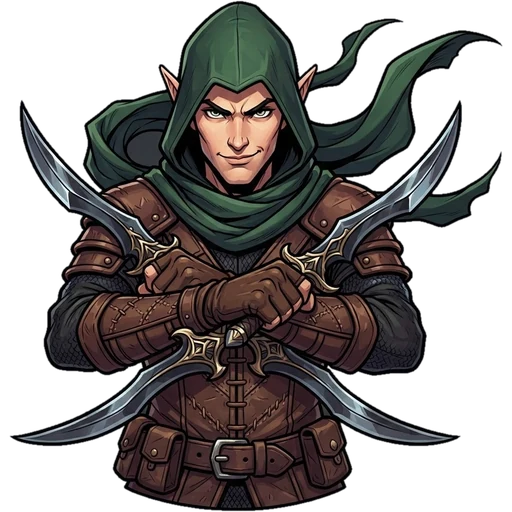
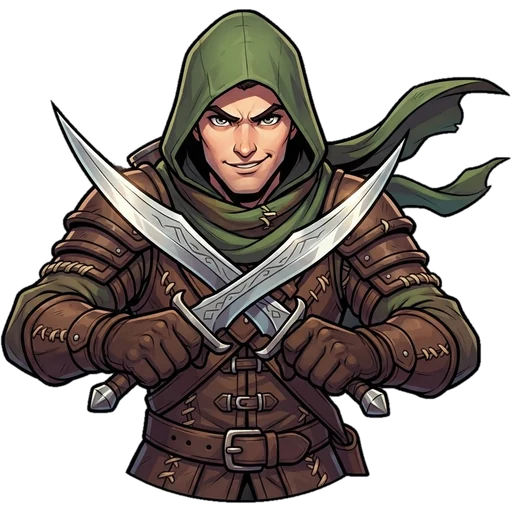
v9.78.8 : nouveau Rôdeur
Claude-Session: https://claude.ai/code/session_014VBvzn7cPipHkoepy8RC9p

diff --git a/index.html b/index.html
@@ -6354,10 +6354,10 @@ function doImport() {
 
 
 /* ===================== Nouveautés (à mettre à jour à chaque version) ===================== */
-const APP_VERSION = '9.78.7'; // ⚠ Mettre aussi le même numéro dans version.json (sinon pas de mise à jour automatique)
+const APP_VERSION = '9.78.8'; // ⚠ Mettre aussi le même numéro dans version.json (sinon pas de mise à jour automatique)
 /* Notes de mise à jour : UNE seule entrée par jour. Si une entrée existe déjà pour aujourd'hui, mets-la à jour (v = dernière version, ajoute/réécris les puces) au lieu d'en ajouter une nouvelle. */
 const CHANGELOG = [
-  {v: '9.78.7', d: '2026-11-18', fr: ['Classes : le Guerrier et le Rôdeur ont maintenant leur personnage illustré, avec un choix d\'apparence homme ou femme.', 'Classes : choisis ta classe (Guerrier, Rôdeur, Moine ou Soigneur). L\'appli te conseille celle qui colle à tes 4 dernières semaines, avec la raison. Tu peux la changer une fois par semaine, et chaque classe gagne des titres de maîtrise avec le temps (carte « Ta classe » dans Guilde, étape à la création du profil).', 'Rotation de l\'écran : la page revient à la même place, même si l\'écran se redessine.', 'Boss : la série qui fait tomber le boss (charge exceptionnelle) n\'est plus prise comme « précédent » ni comme poids proposé à la prochaine séance.', 'Séance : le trophée d\'un record battu est de nouveau visible sur le bouton jaune.', 'Guilde : la « Semaine à thème » est supprimée.', 'Quand tu tournes l\'écran, la page reste à la même place.', 'Montre : le titre qui défile affiche ta dernière performance sur l\'exercice (comme Hevy).', 'Montre : après un échauffement, le repos affiché est tout de suite le bon (45 s par défaut) au lieu de montrer 3 min puis de changer.', 'Synchronisation entre appareils : si tu t\'entraînes sur un autre appareil (téléphone, tablette, navigateur), celui-ci récupère tout seul tes séances, routines, réglages et ta guilde à l\'ouverture. Si les deux ont des changements, l\'appli te demande avant de remplacer.', 'Bannières plus hautes : le décor n\'est plus coupé en haut et en bas.', 'Bannières plus lumineuses : le décor se voit beaucoup mieux (seul le bord gauche reste assombri pour le nom).', 'Le mode développeur ne débloque plus les bannières de guilde.', 'Bannières de guilde : chaque niveau de guilde en débloque de nouvelles (3 au départ, toutes au niveau 8).', 'Auras de série beaucoup plus visibles : plus de particules, plus grosses, avec un halo et un anneau de couleur.', 'Nouvel effet de fin de séance « Arc-en-ciel » : arc lumineux qui se dessine avec des nuages et de la poussière d\'étoiles.', 'Guilde : tu peux inviter directement un ami. Il reçoit une notification et accepte ou refuse (le code reste disponible pour partager).', 'Particules retirées des bannières (elles se figeaient pendant le défilement et jouaient mal avec les peintures).', 'Les 18 bannières sont maintenant de vrais décors peints (village à l\'aube, forge des nains, antre du dragon, cité céleste, kraken des abysses, etc.), avec les particules animées par-dessus.', 'Mode développeur : galerie de tous les boss avec leurs états (normal, enragé, agonie, vaincu, inconnu), un coup et la fenêtre de victoire.', 'Les 6 boss de raid ont maintenant leur portrait peint.', 'Raid de guilde revu : il se fait avec les membres de ta guilde (tout le monde voit le même), seuls ceux qui s\'entraînent cette semaine ajoutent des PV, et chacun a sa barre avec sa part.', 'Carte de héros : elle brille quand tu portes un ensemble complet, et devient mythique au Prestige ou avec l\'ensemble Grand Maître.', 'Les 12 boss ont maintenant de vrais portraits peints, avec une lueur rouge quand ils sont enragés, des fissures à l\'agonie, et une fenêtre de victoire où le boss s\'écroule.'], en: ['Classes: the Warrior and the Ranger now have an illustrated character, with a male or female look.', 'Classes: pick your class (Warrior, Ranger, Monk or Healer). The app suggests the one that fits your last 4 weeks, with the reason. You can change it once a week, and each class earns mastery titles over time (Your class card in Guild, step when creating your profile).', 'Screen rotation: the page returns to the same spot, even if the screen redraws.', 'Boss: the set that defeats the boss (an exceptional load) is no longer used as the "previous" value or the suggested weight next session.', 'Workout: the trophy on a new-record button is visible again on the yellow button.', 'Guild: the Theme Week card is removed.', 'When you rotate the screen, the page stays in place.', 'Watch: the scrolling title shows your last performance on the exercise (like Hevy).', 'Watch: after a warm-up set, the rest timer now shows the right time immediately (45 s by default) instead of 3 min then jumping.', 'Sync between devices: if you train on another device (phone, tablet, browser), this one automatically pulls your workouts, routines, settings and guild when opened. If both have changes, the app asks before replacing.', 'Taller banners: the scene is no longer cropped at top and bottom.', 'Brighter banners: the scene is much more visible (only the left edge stays dark for the name).', 'Developer mode no longer unlocks guild banners.', 'Guild banners: each guild level unlocks new ones (3 at start, all at level 8).', 'Set auras are much more visible: more and bigger particles, with a glow and a colored ring.', 'New "Rainbow" workout-end effect: a glowing arc that draws itself with clouds and stardust.', 'Guild: you can invite a friend directly. They get a notification and accept or decline (the code is still there to share).', 'Particles removed from banners (they froze while scrolling and clashed with the paintings).', 'All 18 banners are now real painted scenes (village at dawn, dwarven forge, dragon\'s lair, celestial city, abyssal kraken, etc.), with animated particles on top.', 'Developer mode: gallery of all bosses with their states (normal, enraged, dying, defeated, unknown), a hit and the victory window.', 'The 6 raid bosses now have painted portraits.', 'Guild raid reworked: it uses your guild members (everyone sees the same one), only those who train this week add HP, and each has a bar showing their share.', 'Hero card: it shines when you wear a full set, and turns mythic at Prestige or with the Grandmaster set.', 'The 12 bosses now have real painted portraits, with a red glow when enraged, cracks when dying, and a victory window where the boss collapses.']},
+  {v: '9.78.8', d: '2026-11-18', fr: ['Classes : le Guerrier et le Rôdeur ont maintenant leur personnage illustré, avec un choix d\'apparence homme ou femme.', 'Classes : choisis ta classe (Guerrier, Rôdeur, Moine ou Soigneur). L\'appli te conseille celle qui colle à tes 4 dernières semaines, avec la raison. Tu peux la changer une fois par semaine, et chaque classe gagne des titres de maîtrise avec le temps (carte « Ta classe » dans Guilde, étape à la création du profil).', 'Rotation de l\'écran : la page revient à la même place, même si l\'écran se redessine.', 'Boss : la série qui fait tomber le boss (charge exceptionnelle) n\'est plus prise comme « précédent » ni comme poids proposé à la prochaine séance.', 'Séance : le trophée d\'un record battu est de nouveau visible sur le bouton jaune.', 'Guilde : la « Semaine à thème » est supprimée.', 'Quand tu tournes l\'écran, la page reste à la même place.', 'Montre : le titre qui défile affiche ta dernière performance sur l\'exercice (comme Hevy).', 'Montre : après un échauffement, le repos affiché est tout de suite le bon (45 s par défaut) au lieu de montrer 3 min puis de changer.', 'Synchronisation entre appareils : si tu t\'entraînes sur un autre appareil (téléphone, tablette, navigateur), celui-ci récupère tout seul tes séances, routines, réglages et ta guilde à l\'ouverture. Si les deux ont des changements, l\'appli te demande avant de remplacer.', 'Bannières plus hautes : le décor n\'est plus coupé en haut et en bas.', 'Bannières plus lumineuses : le décor se voit beaucoup mieux (seul le bord gauche reste assombri pour le nom).', 'Le mode développeur ne débloque plus les bannières de guilde.', 'Bannières de guilde : chaque niveau de guilde en débloque de nouvelles (3 au départ, toutes au niveau 8).', 'Auras de série beaucoup plus visibles : plus de particules, plus grosses, avec un halo et un anneau de couleur.', 'Nouvel effet de fin de séance « Arc-en-ciel » : arc lumineux qui se dessine avec des nuages et de la poussière d\'étoiles.', 'Guilde : tu peux inviter directement un ami. Il reçoit une notification et accepte ou refuse (le code reste disponible pour partager).', 'Particules retirées des bannières (elles se figeaient pendant le défilement et jouaient mal avec les peintures).', 'Les 18 bannières sont maintenant de vrais décors peints (village à l\'aube, forge des nains, antre du dragon, cité céleste, kraken des abysses, etc.), avec les particules animées par-dessus.', 'Mode développeur : galerie de tous les boss avec leurs états (normal, enragé, agonie, vaincu, inconnu), un coup et la fenêtre de victoire.', 'Les 6 boss de raid ont maintenant leur portrait peint.', 'Raid de guilde revu : il se fait avec les membres de ta guilde (tout le monde voit le même), seuls ceux qui s\'entraînent cette semaine ajoutent des PV, et chacun a sa barre avec sa part.', 'Carte de héros : elle brille quand tu portes un ensemble complet, et devient mythique au Prestige ou avec l\'ensemble Grand Maître.', 'Les 12 boss ont maintenant de vrais portraits peints, avec une lueur rouge quand ils sont enragés, des fissures à l\'agonie, et une fenêtre de victoire où le boss s\'écroule.'], en: ['Classes: the Warrior and the Ranger now have an illustrated character, with a male or female look.', 'Classes: pick your class (Warrior, Ranger, Monk or Healer). The app suggests the one that fits your last 4 weeks, with the reason. You can change it once a week, and each class earns mastery titles over time (Your class card in Guild, step when creating your profile).', 'Screen rotation: the page returns to the same spot, even if the screen redraws.', 'Boss: the set that defeats the boss (an exceptional load) is no longer used as the "previous" value or the suggested weight next session.', 'Workout: the trophy on a new-record button is visible again on the yellow button.', 'Guild: the Theme Week card is removed.', 'When you rotate the screen, the page stays in place.', 'Watch: the scrolling title shows your last performance on the exercise (like Hevy).', 'Watch: after a warm-up set, the rest timer now shows the right time immediately (45 s by default) instead of 3 min then jumping.', 'Sync between devices: if you train on another device (phone, tablet, browser), this one automatically pulls your workouts, routines, settings and guild when opened. If both have changes, the app asks before replacing.', 'Taller banners: the scene is no longer cropped at top and bottom.', 'Brighter banners: the scene is much more visible (only the left edge stays dark for the name).', 'Developer mode no longer unlocks guild banners.', 'Guild banners: each guild level unlocks new ones (3 at start, all at level 8).', 'Set auras are much more visible: more and bigger particles, with a glow and a colored ring.', 'New "Rainbow" workout-end effect: a glowing arc that draws itself with clouds and stardust.', 'Guild: you can invite a friend directly. They get a notification and accept or decline (the code is still there to share).', 'Particles removed from banners (they froze while scrolling and clashed with the paintings).', 'All 18 banners are now real painted scenes (village at dawn, dwarven forge, dragon\'s lair, celestial city, abyssal kraken, etc.), with animated particles on top.', 'Developer mode: gallery of all bosses with their states (normal, enraged, dying, defeated, unknown), a hit and the victory window.', 'The 6 raid bosses now have painted portraits.', 'Guild raid reworked: it uses your guild members (everyone sees the same one), only those who train this week add HP, and each has a bar showing their share.', 'Hero card: it shines when you wear a full set, and turns mythic at Prestige or with the Grandmaster set.', 'The 12 bosses now have real painted portraits, with a red glow when enraged, cracks when dying, and a victory window where the boss collapses.']},
   {v: '9.77.0', d: '2026-11-17', fr: ['Guilde : de vraies guildes entre amis. Crée la tienne ou rejoins-en une avec un code ; toute l\'XP des membres fait monter son niveau et débloque des récompenses de guilde.', 'Boss dessinés : chaque boss a son portrait, ses PV et ses phases (enragé, à l\'agonie). Pendant ta séance, chaque série sur l\'exercice du boss lui porte un coup.', 'Nouveau Bestiaire : les boss que tu as vaincus, les autres en silhouette.', 'Le donjon de la semaine devient une carte à 5 salles, avec le coffre au bout.', 'Semaine à thème : un groupe de muscles différent chaque lundi, +300 XP.', 'Armurerie : ta carte de héros (holographique avec un objet Légendaire ou Mythique), les Ensembles, une animation quand tu débloques une récompense, et des bannières animées sur ton profil.', '🛠 iPhone : le titre en haut redescend sous la zone floue d\'Apple (appli installée).', '🛠 Android : les Réglages ne peuvent plus figer l\'appli si Health Connect était en cours de vérification.', '🛠 Android sans montre : l\'appli n\'appelle plus le service montre de Google quand il n\'existe pas sur le téléphone (il pouvait bloquer l\'appli plusieurs secondes).', '📱 Appli Android : ta séance et ton repos sur l\'écran verrouillé (compte à rebours, « +30 s », « Passer »), un widget pour l\'écran d\'accueil (routine du jour, série de semaines, bouton Commencer) et les nouvelles de tes amis même appli fermée (séance terminée, demande d\'ami, défi, encouragement). Réglages → Téléphone Android.', '🐞 Les erreurs de l\'appli sont signalées automatiquement pour être corrigées plus vite (jamais tes séances). Tu peux le couper dans Réglages → Données et compte.', '⚡ Guilde plus rapide : les sections fermées ne sont plus préparées en avance, seulement quand tu les ouvres.', '⚡ Appli Android : plus de latence en changeant d\'onglet. Les données pour la montre ne sont plus recalculées après chaque écran, seulement quand une montre est jumelée et que quelque chose a changé.', '⚡ Onglets instantanés : en touchant un onglet en bas, il s\'affiche net tout de suite, sans fondu. Les autres écrans s\'ouvrent avec un effet beaucoup plus court.', '⚡ Plus fluide : les effets animés (cadres qui tournent, lueurs, bannières) se mettent en pause pendant que tu défiles ou glisses, et restent fixes dans les listes d\'amis et l\'Armurerie. Pendant un glissement, la page suit mieux ton doigt.', '⚡ Le glissement entre onglets marche aussi en partant du haut de l\'écran (le titre), et un glissement plus court ou plus lent suffit.', '⚡ Glisser d\'un onglet à l\'autre est instantané : le nouvel onglet apparaît tout de suite et glisse en place, sans écran vide entre les deux.', '⚡ Plus rapide : les photos de tes amis se chargent seulement quand elles arrivent à l\'écran (la page Amis s\'ouvre beaucoup plus vite), leur copie sur le téléphone est plus légère, et les gros calculs (médailles, niveau) sont préparés à l\'ouverture de l\'appli.', '🛠 Le glissement d\'un onglet à l\'autre refonctionne comme avant.', '⚡ Appli plus fluide : moins de travail en arrière-plan (photos envoyées une à une quand l\'appli ne fait rien, photos de la fiche Amis préparées une seule fois, copie hors ligne retirée).', '⚡ Onglets plus rapides : la Guilde s\'ouvre environ 7 fois plus vite et le Profil environ 4 fois plus vite avec un gros historique. Les transitions entre les écrans sont aussi plus courtes.', '🛠 La page ne « recharge » plus en fondu sombre à chaque petite mise à jour (amis en direct, sauvegarde, etc.) : le fondu se fait seulement en changeant d\'écran.', '🛠 Défiler vite ne rend plus la page sombre : un défilement vers le bas n\'est plus pris pour un glissement d\'onglet, et la page ne s\'assombrit plus pendant un glissement.', '❤ Health Connect : si l\'envoi d\'une séance rate au moment de « Terminer », l\'appli la renvoie toute seule à la prochaine ouverture. Avec la nouvelle appli Android, tes séances apparaissent comme « Musculation » dans Samsung Health (au lieu de « Autre entraînement »).', '📱 iPhone : le haut de l\'appli installée n\'est plus flou. Avec iOS 26, Apple ajoute une zone floue sous l\'heure : le haut de l\'appli descend maintenant juste en dessous.', '🛠 Amis : avec un réseau très lent, l\'appli n\'empile plus plusieurs envois de ta fiche en attente. Android : la reconnexion automatique ne se fait qu\'une fois par ouverture (plus de petite fenêtre de compte qui revient).', '🛠 Correction : après un glissement interrompu entre deux onglets, la page pouvait rester un peu décalée et sombre. Elle se remet maintenant en place toute seule.', '💾 Sauvegarde simplifiée : il reste la sauvegarde Runelift automatique et la copie de sécurité en fichier. Google Drive et GitHub disparaissent des réglages (sauf pour qui les utilise encore).', '📸 Photos : tes photos de progrès et de séances sont maintenant dans ta sauvegarde Runelift (jusqu\'à 500), en version légère. Sur un nouveau téléphone, elles reviennent toutes seules. Google Drive n\'est plus utilisé, donc plus de fenêtre Google Drive.', '🔐 Connexion et synchro : sur Android, si la connexion Google saute, l\'appli se reconnecte toute seule avec ton compte, sans fenêtre. Sans réseau (au gym), tes séances et ta fiche Amis sont gardées et partent toutes seules dès que le réseau revient.', '🔐 Connexion : plus besoin de te demander si tu es connecté. Si ta connexion Google est coupée, une page s\'ouvre toute seule avec un bouton pour te reconnecter (jamais pendant une séance). Le compte Google est maintenant nécessaire dès le début.', '👥 Amis : ta séance arrive maintenant toujours sur ta fiche. Si l\'envoi échoue (mauvais signal) ou tombe en même temps qu\'un autre, l\'appli le refait toute seule à la prochaine ouverture. Avant, une séance pouvait rester invisible pour tes amis.', '✨ Boss du mois : l\'affichage précise maintenant « ton meilleur avant ce mois » et ton 1RM estimé de ce mois-ci une fois le boss vaincu.', '✨ Quête du jour : elle suit maintenant ta routine du jour (celle prévue ou celle que tu fais). Plus de pompes un jour de Pull, et jamais plus de séries ou d\'exercices que ta routine en a. Les objectifs de répétitions, de charge totale et de durée se basent sur la dernière fois que tu as fait cette routine.', '⌚ Montre : si tu lances une séance depuis la montre et que le téléphone répond trop tard, il n\'en crée plus une deuxième en double.', '⌚ Montre : « Remplacer » fonctionne aussi sans le téléphone, et les images des exercices sont envoyées autrement pour mieux s\'afficher.', '⌚ Montre : « Remplacer l\'exercice » dans les options, avec les exercices similaires en premier puis les tiens. Abandonner demande maintenant une confirmation, et le bouton est aussi en bas de la liste des exercices.', '⌚ Montre autonome : si ton téléphone est loin ou si Runelift est fermé, la montre fait la séance seule et l\'envoie au téléphone à la fin (avec ton cardio). Nouvelle tuile Runelift (glisse à gauche depuis le cadran) pour commencer la routine du jour en un toucher. La lunette tactile monte et descend la charge et les reps. Les images des exercices sont envoyées par le téléphone.', '⌚ Montre : charges par 0,5, fais glisser ton doigt sur la charge ou les reps pour défiler vite (avec élan), la lunette accélère quand tu tournes vite, images des exercices, et l\'icône Runelift reste en bas du cadran pendant la séance.', '⌚ Montre : la routine prévue aujourd\'hui est en premier, touche une routine pour voir ses exercices avant de commencer. Pendant la séance, glisse à gauche pour voir tous tes exercices et à droite pour les options (ajouter, changer le type ou supprimer une série, terminer ou abandonner). La montre prend la couleur choisie sur ton téléphone et affiche ta série précédente. Une notification sur le téléphone te prévient quand une séance démarre depuis la montre.', '⌚ Montre, comme Hevy : démarre une routine depuis la montre, ajuste la charge et les répétitions avec les boutons ou la lunette avant de cocher, et termine ta séance au poignet.', '⌚ Appli Runelift pour Galaxy Watch / Wear OS (test) : exercice et série en cours au poignet, bouton « Fait » pour cocher ta série, repos qui vibre sur la montre et fréquence cardiaque en direct dans ta séance. Le cardio mesuré par la montre est gardé dans la séance (moyenne, max et graphique).', '❤ Appli Android : la fréquence cardiaque de ta montre (via Samsung Health et Health Connect) s\'affiche dans chaque séance de l\'historique : moyenne, maximum et graphique.', '❤ Appli Android : Health Connect. Dans Réglages → Santé Android, active-le pour envoyer chaque séance (durée et calories estimées) vers Health Connect, Samsung Health et ta montre, et recevoir ton poids dans tes Mesures.'], en: ['Guild: real guilds with friends. Create yours or join one with a code; all members\' XP levels it up and unlocks guild rewards.', 'Drawn bosses: each boss has a portrait, HP and phases (enraged, dying). During your workout, each set on the boss exercise lands a hit.', 'New Bestiary: the bosses you defeated, the others as silhouettes.', 'The weekly dungeon is now a 5-room map with the chest at the end.', 'Theme week: a different muscle group every Monday, +300 XP.', 'Armory: your hero card (holographic with a Legendary or Mythic item), Sets, an animation when you unlock a reward, and animated banners on your profile.', '🛠 iPhone: the top title sits below Apple\'s blurred area again (installed app).', '🛠 Android: Settings can no longer freeze the app while Health Connect is being checked.', '🛠 Android without a watch: the app no longer calls Google\'s watch service when it is missing on the phone (it could freeze the app for several seconds).', '📱 Android app: your workout and rest on the lock screen (countdown, “+30 s”, “Skip”), a home screen widget (today\'s routine, weekly streak, Start button) and news from your friends even with the app closed (finished workout, friend request, challenge, cheer). Settings → Android phone.', '🐞 App errors are reported automatically so they get fixed faster (never your workouts). You can turn it off in Settings → Data & account.', '⚡ Faster Guild: closed sections are no longer prepared in advance, only when you open them.', '⚡ Android app: no more lag when switching tabs. Watch data is no longer recalculated after every screen, only when a watch is paired and something changed.', '⚡ Instant tabs: tapping a tab at the bottom shows it sharp right away, with no fade. Other screens open with a much shorter effect.', '⚡ Smoother: animated effects (spinning frames, glows, banners) pause while you scroll or swipe, and stay still in friend lists and the Armory. During a swipe the page follows your finger better.', '⚡ Swiping between tabs also works from the top of the screen (the title), and a shorter or slower swipe is enough.', '⚡ Swiping between tabs is instant: the new tab shows right away and slides into place, with no blank screen in between.', '⚡ Faster: your friends\' photos load only when they reach the screen (the Friends page opens much faster), their copy on the phone is lighter, and heavy calculations (medals, level) are prepared when the app opens.', '🛠 Swiping from one tab to another works again as before.', '⚡ Smoother app: less background work (photos sent one by one when the app is idle, Friends card photos prepared only once, offline copy removed).', '⚡ Faster tabs: the Guild opens about 7 times faster and the Profile about 4 times faster with a big history. Screen transitions are also shorter.', '🛠 The page no longer fades in dark again at every small update (live friends, backup, etc.): the fade only happens when changing screens.', '🛠 Fast scrolling no longer darkens the page: scrolling down is no longer mistaken for a tab swipe, and the page no longer dims during a swipe.', '❤ Health Connect: if sending a workout fails when you tap Finish, the app resends it by itself the next time it opens. With the new Android app, your workouts show as weight training in Samsung Health (instead of Other workout).', '📱 iPhone: the top of the installed app is no longer blurry. With iOS 26, Apple adds a blurry area under the clock: the top of the app now sits just below it.', '🛠 Friends: on a very slow network, the app no longer stacks several pending sends of your card. Android: automatic sign-in only runs once per opening (no account sheet coming back).', '🛠 Fix: after an interrupted swipe between tabs, the page could stay slightly shifted and dark. It now snaps back by itself.', '💾 Simpler backup: the automatic Runelift backup and the safety copy as a file remain. Google Drive and GitHub leave the settings (except for those still using them).', '📸 Photos: your progress and workout photos are now in your Runelift backup (up to 500), in a light version. On a new phone they come back by themselves. Google Drive is no longer used, so no more Google Drive window.', '🔐 Sign-in and sync: on Android, if the Google connection drops, the app signs you back in by itself, no window. Without network (at the gym), your workouts and Friends card are kept and sent automatically as soon as the network is back.', '🔐 Sign-in: no need to wonder whether you are signed in anymore. If your Google connection drops, a page opens by itself with a button to sign back in (never during a workout). A Google account is now required from the start.', '👥 Friends: your workout now always reaches your card. If sending fails (weak signal) or collides with another one, the app retries by itself next time you open it. Before, a workout could stay invisible to your friends.', '✨ Boss of the month: the card now says "your best before this month" and shows this month\'s estimated 1RM once the boss is defeated.', '✨ Daily quest: it now follows your routine of the day (planned or the one you are doing). No more push-ups on a Pull day, and never more sets or exercises than your routine has. Rep, total weight and duration goals are based on the last time you did this routine.', '⌚ Watch: "Replace exercise" in options, with similar exercises first, then yours. Discard now asks for confirmation, and the button is also at the bottom of the exercise list.', '⌚ Standalone watch: if your phone is far or Runelift is closed, the watch runs the workout alone and sends it to the phone at the end (with your heart rate). New Runelift tile (swipe left from the watch face) to start today\'s routine in one tap. The touch bezel raises and lowers weight and reps. Exercise images are sent by the phone.', '⌚ Watch: weights by 0.5, swipe on weight or reps to scroll fast (with momentum), the bezel speeds up when you turn fast, exercise images, and the Runelift icon stays at the bottom of the watch face during the workout.', '⌚ Watch: today\'s planned routine comes first, tap a routine to see its exercises before starting. During the workout, swipe left to see all your exercises and right for options (add, change type or delete a set, finish or discard). The watch uses the color chosen on your phone and shows your previous set. A phone notification tells you when a workout starts from the watch.', '⌚ Watch, like Hevy: start a routine from the watch, adjust weight and reps with the buttons or the bezel before checking, and finish your workout from your wrist.', '⌚ Runelift app for Galaxy Watch / Wear OS (test): current exercise and set on your wrist, a "Done" button to check your set, rest that vibrates on the watch and live heart rate in your workout. Heart rate measured by the watch is kept in the workout (average, max and chart).', '❤ Android app: your watch heart rate (via Samsung Health and Health Connect) shows in each workout in your history: average, max and chart.', '❤ Android app: Health Connect. In Settings → Android health, turn it on to send each workout (duration and estimated calories) to Health Connect, Samsung Health and your watch, and receive your weight in your Measures.']},
   {v: '9.64.5', d: '2026-11-16', fr: ['Connexion Google sur Android : envoie le jeton d\'identité à Firebase (au lieu du jeton d\'accès).', 'Connexion Google sur Android : utilise maintenant le projet Firebase pour que les comptes et les amis fonctionnent.', 'Connexion Google sur Android : le message d\'erreur indique maintenant la vraie cause.', 'Préparation de l\'appli Android : connexion Google native.', '📚 5 nouveaux programmes prêts (11 au total) : Débutant 2 jours, Force 5×5, Haltères seulement, PPL + Upper / Lower (5 jours) et Upper / Lower / Full body (3 jours).', '✨ Nouveau : séance générée selon ta récupération (écran Entraînement). Choisis 30, 45, 60 ou 90 minutes : l\'appli propose des exercices pour tes muscles reposés et ceux que tu as moins travaillés cette semaine, et laisse au repos les muscles fatigués. « Autre proposition » en donne une différente.', '🤖 Assistant IA amélioré : le message contient maintenant ton profil (âge, taille, poids, objectif, points forts et faibles, exercices qui stagnent) pour des conseils plus précis. Les boutons ChatGPT et Claude ouvrent l\'IA avec le message déjà écrit quand c\'est possible. L\'analyse donne un bilan même si tu n\'écris pas de question.', '🗓 Nouveau : bilan de la semaine. Il s\'ouvre tout seul au début de chaque semaine (séances, temps, volume, records, comparés à la semaine d\'avant) et reste disponible dans Statistiques.', 'Image de séance à partager : ton nom, ton niveau et ton rang apparaissent maintenant en bas, avec la signature Runelift.', '🎯 Nouveau : objectif de poids (Profil → Mesures et photos). Choisis ton poids visé : barre de progression et date estimée selon ta tendance.', 'Le chrono d\'une série, un minuteur d\'intervalles et une routine d\'étirements en cours reprennent maintenant après un rafraîchissement.', 'Fil des amis : la réaction « bravo » a maintenant une icône de fête au lieu d\'un pouce.', 'Le mode focus reste activé si la page se rafraîchit pendant la séance.', 'Le boss du mois s\'affiche aussi en mode focus, avec un texte plus court. Petits écrans : la charge (ex. 287.5) n\'est plus coupée dans les séries.', 'Petits écrans : la fenêtre « Modifier la séance » ne déborde plus. Dernières icônes dessinées à la place des émojis (Collection, demandes d\'ami, besoins estimés).', 'Le « +5 XP » quand tu coches une série reste affiché un peu plus longtemps (1,8 seconde).', 'Le minuteur de repos continue maintenant si tu rafraîchis la page ou si l\'appli se recharge.', 'Boss du mois mieux expliqué : pas besoin d\'une série en plus, une de tes séries normales suffit. Les choix proposés sont maintenant les plus faciles possibles (ex. 75×10 au lieu de 95×3) et dans ta fourchette de répétitions. Touche un choix pour le mettre dans ta prochaine série.', 'La langue de l\'appli suit maintenant celle de ton téléphone (ou celle choisie sur la page Runelift) dès la première ouverture.', 'Accueil : nouvelle phrase d\'accroche et icône dessinée pour le Mode Classique.', '🔗 Un lien d\'invitation demande maintenant ta confirmation avant d\'envoyer une demande d\'ami.', '🔒 Sécurité renforcée : tout ce qui vient d\'autres personnes (cartes d\'amis, classement mondial, demandes, liens de partage) est vérifié avant d\'être affiché, et personne ne peut s\'ajouter à tes amis sans que tu lui aies envoyé une demande.', '👥 Amis : un ami sans nom s\'affiche avec son @pseudo au lieu de « A friend », le classement explique pourquoi quelqu\'un n\'a pas encore de niveau, et la recherche te dit quoi faire quand elle ne trouve personne.', '📱 Petits écrans : les boutons au-dessus des routines ne dépassent plus.', '🇬🇧 Version anglaise plus complète : plusieurs boutons et réglages restaient en français, et le programme de départ des nouveaux comptes en anglais a maintenant des noms d\'exercices en anglais.', '🪨 Carnet Muscu s\'appelle maintenant Runelift ! Rien d\'autre ne change : tes séances, ta guilde et tes amis sont toujours là.'],
     en: ['Android app groundwork: native Google sign-in.', '📚 5 new ready-made programs (11 in total): Beginner 2 days, Strength 5×5, Dumbbells only, PPL + Upper / Lower (5 days) and Upper / Lower / Full body (3 days).', '✨ New: workout generated from your recovery (Training screen). Pick 30, 45, 60 or 90 minutes: the app suggests exercises for your rested muscles and the ones you trained less this week, and leaves tired muscles to rest. “Another suggestion” gives a different one.', '🤖 Better AI assistant: the message now includes your profile (age, height, weight, goal, strong and weak points, stalled exercises) for more precise advice. The ChatGPT and Claude buttons open the AI with the message already typed in when possible. The analysis gives a review even if you do not write a question.', '🗓 New: weekly recap. It opens by itself at the start of each week (workouts, time, volume, records, compared to the week before) and stays available in Statistics.', 'Workout image to share: your name, level and rank now appear at the bottom, with the Runelift signature.', '🎯 New: weight goal (Profile → Measurements and photos). Pick your target weight: progress bar and estimated date based on your trend.', 'A set stopwatch, an interval timer and a stretching routine in progress now resume after a refresh.', 'Friends feed: the “bravo” reaction now uses a party icon instead of a thumb.', 'Focus mode stays on if the page refreshes during a workout.', 'The monthly boss also shows in focus mode, with shorter text. Small screens: the weight (e.g. 287.5) is no longer cut off in set rows.', 'Small screens: the “Edit workout” window no longer overflows. Last emojis replaced by drawn icons (Collection, friend requests, estimated needs).', 'The “+5 XP” shown when you tick a set now stays on screen a bit longer (1.8 seconds).', 'The rest timer now keeps going if you refresh the page or the app reloads.', 'Monthly boss explained better: no extra set needed, one of your normal sets is enough. The suggested options are now the easiest possible (e.g. 75×10 instead of 95×3) and within your rep range. Tap one to put it in your next set.', 'The app language now follows your phone (or the one picked on the Runelift page) from the very first launch.', 'Welcome screen: new tagline and a drawn icon for Classic mode; units shown in English.', '🔗 An invitation link now asks for your confirmation before sending a friend request.', '📚 Popular programs and more messages are now in English.', '🔒 Stronger security: everything that comes from other people (friend cards, world ranking, requests, share links) is checked before being displayed, and nobody can add themselves to your friends unless you sent them a request.', '👥 Friends: a friend without a name shows their @username instead of “A friend”, the ranking explains why someone has no level yet, and search tells you what to do when it finds nobody.', '📱 Small screens: the buttons above your routines no longer overflow.', '🇬🇧 More complete English version: several buttons and settings were still in French, and the starter program for new English accounts now uses English exercise names.', '🪨 Carnet Muscu is now called Runelift! Nothing else changes: your workouts, guild and friends are all still here.']},
